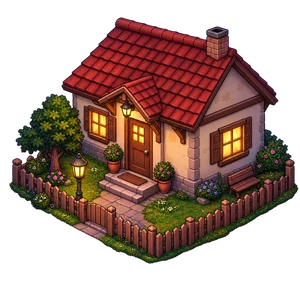
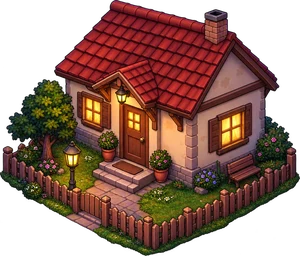
פסיכופת גינה: her house stands on the ground (trimmed picture, one row down, shadow under the yard)

diff --git a/public/night-guy-games/garden/game.js b/public/night-guy-games/garden/game.js
@@ -86,7 +86,7 @@ const PROP = {
   slide: { w: 2, h: 2, dw: 2.7 }, swings: { w: 3, h: 1, dw: 3.3 }, sandbox: { w: 2, h: 2, dw: 2.5 }, seesaw: { w: 3, h: 1, dw: 3.1 }, horse: { w: 1, h: 1, dw: 1.3 }, dome: { w: 2, h: 2, dw: 2.7 },
   pond: { w: 2, h: 2, dw: 2.8 }, statue: { w: 1, h: 1, dw: 1.35 }, pot: { w: 1, h: 1, dw: 1.25 }, topiary: { w: 1, h: 1, dw: 1.45 }, birdbath: { w: 1, h: 1, dw: 1.15 }, glamp: { w: 1, h: 1, dw: 0.75, light: 1 },
   palm: { w: 1, h: 1, dw: 2.0 }, tower: { w: 2, h: 2, dw: 2.5 }, icecream: { w: 1, h: 1, dw: 1.5 }, umbrella: { w: 2, h: 1, dw: 2.3 }, bluebin: { w: 1, h: 1, dw: 0.95 }, blamp: { w: 1, h: 1, dw: 0.75, light: 1 },
-  house: { w: 2, h: 2, dw: 3.7 },
+  house: { w: 2, h: 2, dw: 3.7, base: 0.22 },   // its yard is a diamond: the shadow sits under the yard's middle
 };
 for (const a of ARENAS) img('ground-' + a.id, `assets/ground-${a.id}.jpg`);
 for (const k of Object.keys(PROP)) img('prop-' + k, `assets/props/${k}.webp`);
@@ -194,7 +194,7 @@ function buildPark(seed, clearFrom) {
   owner = new Uint8Array(COLS * ROWS); zone = new Uint8Array(COLS * ROWS); block = new Uint8Array(COLS * ROWS); zoneCount = 0; blockCount = 0; props = [];
   const PR = rng(seed);
   // her house in a top corner, the restraining-order circle around it
-  const left = PR() < 0.5, hc = left ? 1 : COLS - 3, hr = 1;
+  const left = PR() < 0.5, hc = left ? 1 : COLS - 3, hr = 2;
   props.push({ k: 'house', c: hc, r: hr });
   for (let y = hr; y < hr + 2; y++) for (let x = hc; x < hc + 2; x++) block[idx(x, y)] = 1;
   zoneC = { c: hc + 1, r: hr + 1.2, R: 3.3 };
@@ -740,7 +740,8 @@ function draw(now) {
     items.push({ y: p.r + P.h - 0.55, f: () => {
       const im = IMG['prop-' + p.k]; if (!ok(im)) return;
       const cx = B.x + (p.c + P.w / 2) * t, by = B.y + (p.r + P.h) * t - t * 0.15, w = P.dw * t, h = w * im.naturalHeight / im.naturalWidth;
-      shadow(cx, by - t * 0.05, w * 0.8);
+      if (P.base) { ctx.save(); ctx.fillStyle = '#0008'; ctx.filter = 'blur(3px)'; ctx.beginPath(); ctx.ellipse(cx, by - h * P.base, w * 0.5, h * 0.2, 0, 0, Math.PI * 2); ctx.fill(); ctx.restore(); }
+      else shadow(cx, by - t * 0.05, w * 0.8);
       ctx.drawImage(im, cx - w / 2, by - h, w, h);
     } });
   }

diff --git a/public/night-guy-games/garden/index.html b/public/night-guy-games/garden/index.html
@@ -210,6 +210,6 @@ html:not(.in-verse) .verse-only{display:none!important}html.in-verse .verse-hide
     <button id="tutNext">הבא <span class="keyhint">(רווח)</span></button>
   </div>
 </div>
-<script src="game.js?v=5"></script>
+<script src="game.js?v=6"></script>
 </body>
 </html>
